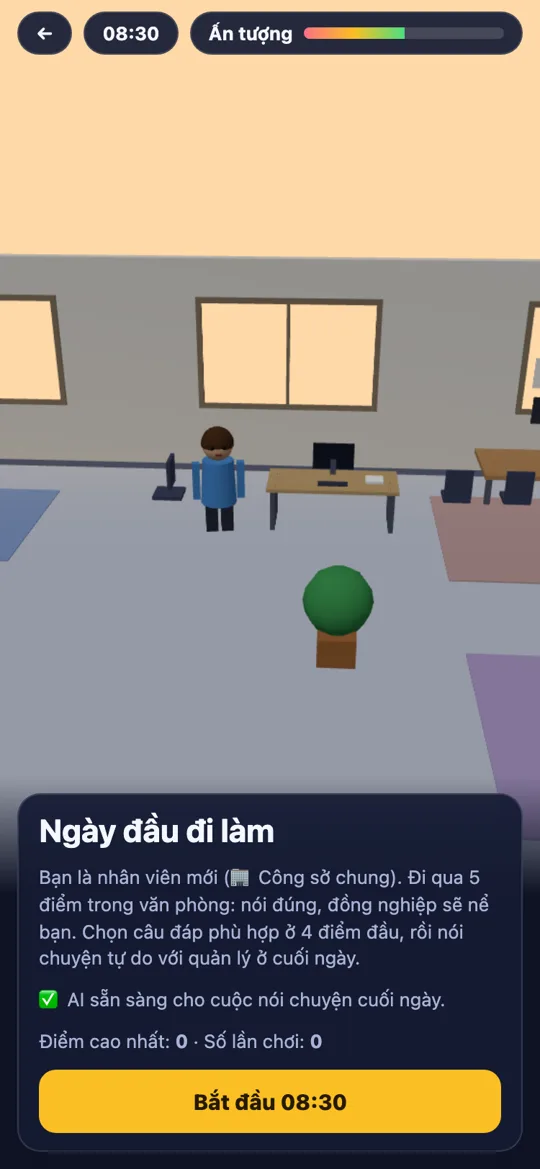
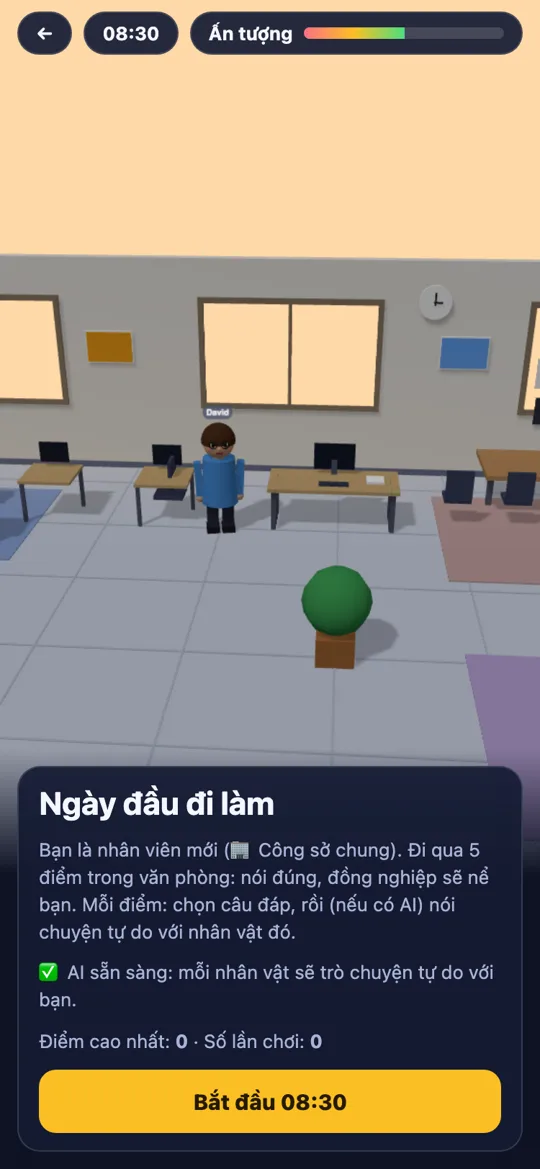
feat(game3d): nâng cấp nhân vật, cảnh có bóng đổ, AI trò chuyện ở cả 5 nhân vật; cập nhật ảnh showcase

diff --git a/game3d/game3d.js b/game3d/game3d.js
@@ -42,32 +42,46 @@ function parseReply(t){var i=t.indexOf('FIX:');return i<0?{reply:t.trim(),fix:''
 var canvas=$('#c'),renderer,scene,camera,sun,amb,skyMat,people={},clockEl=$('#clock');
 function mat(c){return new THREE.MeshLambertMaterial({color:c});}
 function box(w,h,d,c,x,y,z,parent){var m=new THREE.Mesh(new THREE.BoxGeometry(w,h,d),mat(c));m.position.set(x,y,z);(parent||scene).add(m);return m;}
+function sprite(txt,fs,bg){var c=document.createElement('canvas');c.width=256;c.height=96;var x=c.getContext('2d');x.font='700 '+fs+'px sans-serif';x.textAlign='center';x.textBaseline='middle';
+  if(bg){x.fillStyle=bg;var w=Math.min(250,x.measureText(txt).width+34);x.beginPath();x.roundRect?x.roundRect(128-w/2,16,w,64,30):x.rect(128-w/2,16,w,64);x.fill();}
+  x.fillStyle='#fff';x.fillText(txt,128,49);var t=new THREE.CanvasTexture(c);var sp=new THREE.Sprite(new THREE.SpriteMaterial({map:t,transparent:true,depthTest:false}));sp.scale.set(.85,.32,1);sp.renderOrder=9;return sp;}
 function person(o){
-  var g=new THREE.Group(),skin=mat(o.skin),cloth=mat(o.cloth);
-  var l1=box(.2,.5,.22,o.pants,-.13,.25,0,g),l2=box(.2,.5,.22,o.pants,.13,.25,0,g);
-  var body=new THREE.Mesh(new THREE.CylinderGeometry(.26,.3,.75,12),cloth);body.position.y=.88;g.add(body);
-  var a1=box(.12,.62,.14,o.cloth,-.37,.9,0,g),a2=box(.12,.62,.14,o.cloth,.37,.9,0,g);
-  var head=new THREE.Group();head.position.y=1.5;g.add(head);
-  var hm=new THREE.Mesh(new THREE.SphereGeometry(.25,16,12),skin);head.add(hm);
-  var hair=new THREE.Mesh(new THREE.SphereGeometry(.27,16,10,0,Math.PI*2,0,Math.PI*.55),mat(o.hair));hair.position.set(0,.03,-.02);head.add(hair);
-  [-.09,.09].forEach(function(x){var e=new THREE.Mesh(new THREE.SphereGeometry(.035,8,6),mat(0x1a1a1a));e.position.set(x,.03,.225);head.add(e);});
-  var mouth=box(.1,.028,.02,0x7a2b2b,0,-.09,.235,head);
-  if(o.tie){box(.07,.3,.03,o.tie,0,.95,.27,g);}
-  g.userData={head:head,mouth:mouth,a1:a1,a2:a2,react:null,reactAt:0,base:0};
+  var g=new THREE.Group(),skin=mat(o.skin),cloth=mat(o.cloth),pm=mat(o.pants);
+  var l1=box(.19,.5,.21,o.pants,-.13,.27,0,g),l2=box(.19,.5,.21,o.pants,.13,.27,0,g);
+  box(.22,.09,.32,0x1b1b22,-.13,.05,.04,g);box(.22,.09,.32,0x1b1b22,.13,.05,.04,g);
+  var body=new THREE.Mesh(new THREE.CylinderGeometry(.27,.31,.78,14),cloth);body.position.y=.9;g.add(body);
+  box(.5,.07,.3,o.pants,0,.55,0,g);
+  var a1=new THREE.Group(),a2=new THREE.Group();a1.position.set(-.36,1.22,0);a2.position.set(.36,1.22,0);g.add(a1,a2);
+  [a1,a2].forEach(function(a,ix){var arm=box(.12,.58,.14,o.cloth,0,-.29,0,a);var hand=new THREE.Mesh(new THREE.SphereGeometry(.075,10,8),skin);hand.position.set(0,-.62,0);a.add(hand);});
+  var neck=new THREE.Mesh(new THREE.CylinderGeometry(.09,.1,.14,10),skin);neck.position.y=1.33;g.add(neck);
+  var head=new THREE.Group();head.position.y=1.55;g.add(head);
+  head.add(new THREE.Mesh(new THREE.SphereGeometry(.26,20,16),skin));
+  var hair=new THREE.Mesh(new THREE.SphereGeometry(.28,20,12,0,Math.PI*2,0,Math.PI*.55),mat(o.hair));hair.position.set(0,.03,-.02);head.add(hair);
+  if(o.long){box(.5,.5,.14,o.hair,0,-.12,-.17,head);}
+  var eyes=[];[-.095,.095].forEach(function(x){var w=new THREE.Mesh(new THREE.SphereGeometry(.05,10,8),mat(0xffffff));w.position.set(x,.03,.21);w.scale.z=.5;head.add(w);
+    var e=new THREE.Mesh(new THREE.SphereGeometry(.03,10,8),mat(0x1a1a1a));e.position.set(x,.03,.238);head.add(e);eyes.push(w,e);
+    box(.1,.018,.02,o.hair,x,.12,.235,head);});
+  var nose=new THREE.Mesh(new THREE.SphereGeometry(.03,8,6),skin);nose.position.set(0,-.03,.26);head.add(nose);
+  [-.15,.15].forEach(function(x){var ch=new THREE.Mesh(new THREE.SphereGeometry(.04,8,6),mat(0xf08a8a));ch.position.set(x,-.05,.2);ch.scale.z=.3;head.add(ch);});
+  var mouth=box(.11,.026,.02,0x8a3030,0,-.11,.245,head);
+  if(o.glasses){[-.095,.095].forEach(function(x){var r=new THREE.Mesh(new THREE.TorusGeometry(.06,.01,6,14),mat(0x222222));r.position.set(x,.03,.245);head.add(r);});}
+  if(o.tie){box(.07,.34,.03,o.tie,0,.98,.29,g);}
+  var tag=sprite(o.name,40,'rgba(20,24,44,.82)');tag.position.set(0,2.05,0);g.add(tag);
+  g.userData={head:head,mouth:mouth,a1:a1,a2:a2,eyes:eyes,react:null,reactAt:0,base:0,bub:null,bubAt:0};
   return g;
 }
 var SLOTS=[
-  {k:'reception',time:'08:30',where:'Quầy lễ tân',x:-6,z:-3,name:'Lan',role:'Lễ tân · HR',cast:{skin:0xf2c9a0,cloth:0xe86a92,pants:0x33344d,hair:0x2a1c14}},
-  {k:'desk',time:'10:00',where:'Bàn làm việc',x:-1,z:-3,name:'David',role:'Đồng nghiệp bàn cạnh',cast:{skin:0xe8b48c,cloth:0x4a90d9,pants:0x2b2f3f,hair:0x4b2e1a}},
-  {k:'kitchen',time:'12:15',where:'Bếp văn phòng',x:-6,z:2.5,name:'Emma',role:'Đồng nghiệp phòng khác',cast:{skin:0xf5d5b5,cloth:0x59b36b,pants:0x3a3a3a,hair:0xc0842c}},
-  {k:'meeting',time:'14:00',where:'Phòng họp',x:5,z:-3,name:'Kenji',role:'Trưởng nhóm',cast:{skin:0xe3b58f,cloth:0x6b6bd6,pants:0x22263a,hair:0x151515}},
-  {k:'boss',time:'16:30',where:'Phòng sếp',x:5,z:2.5,name:'Ms. Park',role:'Quản lý — nói chuyện tự do',cast:{skin:0xeac09a,cloth:0x30364f,pants:0x1c1f2e,hair:0x201510,tie:0xd9534f}}
+  {k:'reception',time:'08:30',where:'Quầy lễ tân',x:-6,z:-3,name:'Lan',role:'Lễ tân · HR',goal:'You are Lan, the front-desk/HR person. Greet the new employee, ask their name, tell them about the badge, wifi password and where to sit. Be warm.',cast:{name:'Lan',long:1,skin:0xf2c9a0,cloth:0xe86a92,pants:0x33344d,hair:0x2a1c14}},
+  {k:'desk',time:'10:00',where:'Bàn làm việc',x:-1,z:-3,name:'David',role:'Đồng nghiệp bàn cạnh',goal:'You are David, the colleague at the next desk. Introduce yourself, ask what the new person will work on, offer help, and talk about the team.',cast:{name:'David',skin:0xe8b48c,cloth:0x4a90d9,pants:0x2b2f3f,hair:0x4b2e1a,glasses:1}},
+  {k:'kitchen',time:'12:15',where:'Bếp văn phòng',x:-6,z:2.5,name:'Emma',role:'Đồng nghiệp phòng khác',goal:'You are Emma from another department, meeting the new person in the kitchen at lunch. Make small talk: coffee, lunch, hobbies, weekend, where they live.',cast:{name:'Emma',long:1,skin:0xf5d5b5,cloth:0x59b36b,pants:0x3a3a3a,hair:0xc0842c}},
+  {k:'meeting',time:'14:00',where:'Phòng họp',x:5,z:-3,name:'Kenji',role:'Trưởng nhóm',goal:'You are Kenji, the team lead, in a short team meeting. Ask the new person for a quick self-introduction, then ask a work question they must answer or clarify (deadline, task, problem). Sometimes speak fast so they must ask you to repeat.',cast:{name:'Kenji',skin:0xe3b58f,cloth:0x6b6bd6,pants:0x22263a,hair:0x151515}},
+  {k:'boss',time:'16:30',where:'Phòng sếp',x:5,z:2.5,name:'Ms. Park',role:'Quản lý — nói chuyện tự do',goal:'You are Ms. Park, the manager. It is the END of their first day. Ask how the day went, what they learned, what was difficult, and about tomorrow.',cast:{name:'Ms. Park',long:1,skin:0xeac09a,cloth:0x30364f,pants:0x1c1f2e,hair:0x201510,tie:0xd9534f}}
 ];
 function build(){
   scene=new THREE.Scene();scene.background=new THREE.Color(0x9ec9ff);scene.fog=new THREE.Fog(0x9ec9ff,14,34);
   camera=new THREE.PerspectiveCamera(58,1,.1,60);
   amb=new THREE.HemisphereLight(0xffffff,0x8a8f9e,.85);scene.add(amb);
-  sun=new THREE.DirectionalLight(0xffffff,.8);sun.position.set(-4,9,6);scene.add(sun);
+  sun=new THREE.DirectionalLight(0xffffff,.8);sun.position.set(-4,9,6);sun.castShadow=true;sun.shadow.mapSize.set(1024,1024);var sc=sun.shadow.camera;sc.left=-13;sc.right=13;sc.top=10;sc.bottom=-10;sc.near=1;sc.far=30;sun.shadow.bias=-.0008;scene.add(sun);
   // sàn + tường
   box(20,.2,15,0xcfd6e6,0,-.1,.5);
   box(20,4,.3,0xf1efe9,0,2,-6);box(.3,4,15,0xece9e2,-10,2,.5);box(.3,4,15,0xece9e2,10,2,.5);
@@ -94,12 +108,22 @@ function build(){
   box(.7,.1,.7,0x30364f,5,.55,.4);box(.7,.7,.1,0x30364f,5,.95,.05);
   // cây cảnh
   [[-9,-5],[9,-5],[9,5],[-9,5],[1,1]].forEach(function(p){box(.5,.4,.5,0xa86b3c,p[0],.2,p[1]);var l=new THREE.Mesh(new THREE.SphereGeometry(.45,10,8),mat(0x3f9d54));l.position.set(p[0],.85,p[1]);scene.add(l);});
+  // sàn caro + trang trí
+  for(var gx=-9;gx<=9;gx+=2)box(.03,.01,15,0xbcc4d8,gx,.005,.5);for(var gz=-5;gz<=7;gz+=2)box(20,.01,.03,0xbcc4d8,0,.006,gz);
+  box(1.6,.5,.7,0x5b6fd6,-8.4,.25,-4.8);box(1.6,.5,.15,0x4a5cbb,-8.4,.7,-5.1); // sofa
+  box(.9,.6,.08,0xffffff,-3.4,2.4,-5.85);box(.85,.55,.02,0xf59e0b,-3.4,2.4,-5.8);box(.9,.6,.08,0xffffff,3.2,2.4,-5.85);box(.85,.55,.02,0x60a5fa,3.2,2.4,-5.8); // tranh
+  var ck=new THREE.Mesh(new THREE.CylinderGeometry(.3,.3,.06,20),mat(0xffffff));ck.rotation.x=Math.PI/2;ck.position.set(2.6,3.3,-5.8);scene.add(ck);box(.03,.22,.02,0x222222,2.6,3.36,-5.76);box(.16,.03,.02,0x222222,2.65,3.3,-5.76);
+  box(2.2,1.6,.3,0x6b4a2e,8.6,.8,-5.5);[.4,.9,1.4].forEach(function(y){box(2,.05,.34,0x8a6a44,8.6,y,-5.5);[0,1,2,3,4].forEach(function(n){box(.25,.3,.2,[0xd9534f,0x4a90d9,0x59b36b,0xf59e0b,0x9b6bd6][n],7.9+n*.35,y+.18,-5.5);});}); // giá sách
+  box(.6,.9,.6,0x30364f,-9,.45,1);box(.4,.3,.4,0xd9534f,-9,1.1,1); // máy pha cà phê
+  [-4,-2].forEach(function(x){box(.9,.05,.9,0xc9a875,x,.75,-3.4);box(.06,.75,.06,0x555b70,x-.4,.37,-3.0);box(.06,.75,.06,0x555b70,x+.4,.37,-3.8);box(.5,.35,.04,0x161b2b,x,1.05,-3.7);});
   // người
   SLOTS.forEach(function(s){var p=person(s.cast);p.position.set(s.x,0,s.z);p.userData.base=s.z;
     p.rotation.y=(s.x<0?.18:-.18);scene.add(p);people[s.k]=p;});
+  scene.traverse(function(o){if(o.isMesh&&o.material!==skyMat){o.castShadow=true;o.receiveShadow=true;}});
 }
 var camTarget={p:new THREE.Vector3(0,7,10),l:new THREE.Vector3(0,0,-1)},camPos=new THREE.Vector3(0,7,10),camLook=new THREE.Vector3(0,0,-1);
 function focusSlot(i){var s=SLOTS[i];camTarget.p.set(s.x+(s.x<0?.9:-.9),1.9,s.z+4.2);camTarget.l.set(s.x,-.05,s.z);}
+function emote(k,e){var p=people[k],u=p.userData;if(u.bub)p.remove(u.bub);var sp=sprite(e,60);sp.scale.set(.9,.34,1);sp.position.set(0,2.55,0);p.add(sp);u.bub=sp;u.bubAt=performance.now();}
 function overview(){camTarget.p.set(0,6.5,11);camTarget.l.set(0,0,-1);}
 function setDayTime(f){ // f 0..1 (08:30 → 17:30)
   var c1=new THREE.Color(0xffd9a8),c2=new THREE.Color(0x9ec9ff),c3=new THREE.Color(0xff9e6b),c;
@@ -120,7 +144,9 @@ function frame(now){
     u.mouth.scale.y=talking?(1+(Math.sin(now/70)>0?3:0)):1;
     var rx=0,ry=0;if(u.react){var e=(now-u.reactAt)/700;if(e>1)u.react=null;else{if(u.react==='nod')rx=Math.sin(e*Math.PI*3)*.28*(1-e);else ry=Math.sin(e*Math.PI*4)*.4*(1-e);}}
     u.head.rotation.x=rx;u.head.rotation.y=ry;
-    if(talking&&!reduce){u.a1.rotation.z=Math.sin(now/220)*.12;u.a2.rotation.z=-Math.sin(now/260)*.12;}else{u.a1.rotation.z=u.a2.rotation.z=0;}
+    var bl=(Math.floor(now/1000+ix*.7)%4===0&&(now%1000)<130)?.1:1;u.eyes.forEach(function(e){e.scale.y=bl;});
+    if(talking&&!reduce){u.a1.rotation.z=Math.sin(now/220)*.35;u.a2.rotation.z=-Math.sin(now/260)*.35;u.a1.rotation.x=Math.sin(now/300)*.25;}else{u.a1.rotation.z=.05;u.a2.rotation.z=-.05;u.a1.rotation.x=0;if(!reduce)u.a1.rotation.x=Math.sin(now/900+ix)*.03;}
+    if(u.bub){var e2=(now-u.bubAt)/1600;if(e2>1){p.remove(u.bub);u.bub=null;}else{u.bub.position.y=2.55+e2*.35;u.bub.material.opacity=1-Math.max(0,e2-.7)/.3;}}
   });
   renderer.render(scene,camera);
 }
@@ -135,21 +161,20 @@ function trackLabel(){return PACK?(PACK.emoji||'')+' '+PACK.label:'💻 IT · Ph
 
 function intro(){
   overview();st.on=false;setImp(50);
-  panel('<div class="box"><h2>Ngày đầu đi làm</h2><div class="muted">Bạn là nhân viên mới ('+esc(trackLabel())+'). Đi qua 5 điểm trong văn phòng: nói đúng, đồng nghiệp sẽ nể bạn. Chọn câu đáp phù hợp ở 4 điểm đầu, rồi nói chuyện tự do với quản lý ở cuối ngày.</div>'+
-    '<div class="muted">'+(aiConfigured()?'✅ AI sẵn sàng cho cuộc nói chuyện cuối ngày.':'ℹ Chưa có AI — cuối ngày dùng câu chọn. Nhập key trong Hồ sơ của game chính để nói tự do.')+'</div>'+
+  panel('<div class="box"><h2>Ngày đầu đi làm</h2><div class="muted">Bạn là nhân viên mới ('+esc(trackLabel())+'). Đi qua 5 điểm trong văn phòng: nói đúng, đồng nghiệp sẽ nể bạn. Mỗi điểm: chọn câu đáp, rồi (nếu có AI) nói chuyện tự do với nhân vật đó.</div>'+
+    '<div class="muted">'+(aiConfigured()?'✅ AI sẵn sàng: mỗi nhân vật sẽ trò chuyện tự do với bạn.':'ℹ Chưa có AI — chỉ có câu chọn. Nhập key trong Hồ sơ game chính để nói chuyện tự do ở mỗi điểm.')+'</div>'+
     '<div class="muted">Điểm cao nhất: <b>'+S.best+'</b> · Số lần chơi: <b>'+S.plays+'</b></div>'+
     '<button class="btn" id="go">Bắt đầu 08:30</button></div>');
   $('#go').onclick=function(){start();};
 }
 function start(){
   st.on=true;st.i=0;st.list=[];st.miss=[];st.good=0;st.total=0;st.done=false;setImp(50);
-  var need=aiConfigured()?4:5;st.dlg=pickDialogs(need);
+  var need=5;st.dlg=pickDialogs(need);
   if(st.dlg.length<need){toast('Gói này chưa đủ hội thoại');}
   scene0();
 }
 function scene0(){
   var s=SLOTS[st.i];focusSlot(st.i);clockEl.textContent=s.time;setDayTime(st.i/(SLOTS.length-1));
-  if(st.i===SLOTS.length-1&&aiConfigured())return chatScene();
   var d=st.dlg[Math.min(st.i,st.dlg.length-1)];
   if(!d){return finish();}
   choiceScene(s,d);
@@ -168,26 +193,26 @@ function answer(btn,o,d,s,opts){
   var all=document.querySelectorAll('#opts .opt');all.forEach(function(b){b.disabled=true;});
   st.total++;var p=people[s.k].userData;p.reactAt=performance.now();
   var good=opts.filter(function(x){return x.good;})[0];
-  if(o.good){st.good++;btn.classList.add('ok');setImp(st.imp+16);p.react='nod';}
-  else{btn.classList.add('no');setImp(st.imp-9);p.react='shake';
+  if(o.good){st.good++;btn.classList.add('ok');setImp(st.imp+16);p.react='nod';emote(s.k,'👍');}
+  else{btn.classList.add('no');setImp(st.imp-9);p.react='shake';emote(s.k,'🤔');
     all.forEach(function(b,ix){if(opts[ix]===good)b.classList.add('ok');});
     st.miss.push({wrong:o.t,right:good?good.t:'',note:o.fb||''});}
-  var fb=$('#fbx');fb.innerHTML='<div class="fb '+(o.good?'ok':'no')+'">'+(o.good?'✅ ':'❌ ')+esc(o.fb||'')+'</div><button class="btn" id="nx" style="margin-top:8px;width:100%">'+(st.i>=SLOTS.length-1?'Kết thúc ngày':'Tiếp — '+SLOTS[st.i+1].time)+'</button>';
+  var fb=$('#fbx');fb.innerHTML='<div class="fb '+(o.good?'ok':'no')+'">'+(o.good?'✅ ':'❌ ')+esc(o.fb||'')+'</div><button class="btn" id="nx" style="margin-top:8px;width:100%">'+(aiConfigured()?'💬 Nói chuyện tiếp với '+s.name:(st.i>=SLOTS.length-1?'Kết thúc ngày':'Tiếp — '+SLOTS[st.i+1].time))+'</button>';
   if(good)speak(good.t);
-  $('#nx').onclick=next;
+  $('#nx').onclick=function(){if(aiConfigured())chatScene(s);else next();};
 }
 function next(){st.i++;if(st.i>=SLOTS.length)return finish();scene0();}
 
 /* --- Cuộc nói chuyện AI với quản lý --- */
 function bossSystem(){
-  var lvl=(loadApp().cfg||{}).level||'A2',who=PACK?PACK.persona:'a Vietnamese software developer',ctx=PACK?PACK.context:'a software company';
-  return 'You are Ms. Park, a friendly but busy manager at '+ctx+'. The person talking to you is '+who+' (CEFR '+lvl+') at the END of their first day at work. Chat about how the first day went, what they learned, and tomorrow. Use very simple English, max 2 short sentences, and ask ONE question at a time. After your reply, on a NEW line write "FIX:" followed by either OK (if their last message was fine) or "wrong => right ~ short Vietnamese note" for the most important mistake. Never skip the FIX line.';
+  var s=SLOTS[st.i],lvl=(loadApp().cfg||{}).level||'A2',who=PACK?PACK.persona:'a Vietnamese software developer',ctx=PACK?PACK.context:'a software company';
+  return s.goal+' The setting is '+ctx+', time '+s.time+' on the new person\'s FIRST DAY. The person talking to you is '+who+' (CEFR '+lvl+'). Stay in character, use very simple English, max 2 short sentences, ask ONE question at a time, and react naturally to what they say. After your reply, on a NEW line write "FIX:" followed by either OK (if their last message was fine) or "wrong => right ~ short Vietnamese note" for the most important mistake. Never skip the FIX line.';
 }
-function chatScene(){
-  var s=SLOTS[st.i];st.chat={turns:[],user:0,busy:false};
+function chatScene(s){
+  focusSlot(st.i);st.chat={turns:[],user:0,busy:false,need:(st.i===SLOTS.length-1?3:2)};
   panel('<div class="box"><div class="who">'+esc(s.where)+' · '+esc(s.name)+' <span class="muted" style="text-transform:none">'+esc(s.role)+'</span></div>'+
     '<div class="chat" id="chat"></div><div class="row"><input class="tx" id="inp" placeholder="Trả lời bằng tiếng Anh…" autocomplete="off"><button class="btn ghost" id="mic" aria-label="Nói">🎤</button><button class="btn" id="snd">Gửi</button></div>'+
-    '<div class="muted" id="cnt">Lượt 0/3 — nói đủ 3 lượt để kết thúc ngày</div></div>');
+    '<div class="muted" id="cnt">Lượt 0/'+st.chat.need+' — nói đủ để đi tiếp</div></div>');
   $('#snd').onclick=function(){send();};
   $('#inp').onkeydown=function(e){if(e.key==='Enter')send();};
   $('#mic').onclick=mic;
@@ -204,7 +229,7 @@ async function bossTurn(msgs,first){
 }
 async function send(){
   var ch=st.chat,inp=$('#inp');if(!ch||ch.busy)return;var t=inp.value.trim();if(!t)return;inp.value='';
-  var ub=bubble('me',esc(t));ch.user++;$('#cnt').textContent='Lượt '+Math.min(ch.user,3)+'/3';
+  var ub=bubble('me',esc(t));ch.user++;$('#cnt').textContent='Lượt '+Math.min(ch.user,ch.need)+'/'+ch.need;
   var msgs=(ch.turns.length?[{role:'user',content:'(I walk into your office at the end of my first day.)'}]:[]).concat(ch.turns.map(function(m){return {role:m.role,content:m.content};})).concat([{role:'user',content:t}]);
   ch.turns.push({role:'user',content:t});ch.busy=true;var wait=bubble('ai','…');
   try{var raw=await aiCall(bossSystem(),msgs);var r=parseReply(raw);wait.textContent=r.reply;ch.turns.push({role:'assistant',content:raw});speak(r.reply);
@@ -212,10 +237,10 @@ async function send(){
     if(ok){setImp(st.imp+8);st.good++;}else{setImp(st.imp+2);var m=r.fix.match(/^(.*?)\s*=>\s*(.*?)(?:\s*~\s*(.*))?$/);
       if(m){st.miss.push({wrong:m[1].trim(),right:m[2].trim(),note:(m[3]||'').trim()});ub.innerHTML+='<div class="vi">💡 '+esc(m[2].trim())+(m[3]?' — '+esc(m[3].trim()):'')+'</div>';}}
     st.total++;
-    var pu=people.boss.userData;pu.react=ok?'nod':'shake';pu.reactAt=performance.now();
-  }catch(e){wait.textContent='(AI đang bận — thử gửi lại câu đó)';ch.user--;$('#cnt').textContent='Lượt '+ch.user+'/3';ch.turns.pop();}
+    var pu=people[SLOTS[st.i].k].userData;pu.react=ok?'nod':'shake';pu.reactAt=performance.now();emote(SLOTS[st.i].k,ok?'😊':'🤔');
+  }catch(e){wait.textContent='(AI đang bận — thử gửi lại câu đó)';ch.user--;$('#cnt').textContent='Lượt '+ch.user+'/'+ch.need;ch.turns.pop();}
   ch.busy=false;
-  if(ch.user>=3&&!$('#endd')){var b=document.createElement('button');b.className='btn';b.id='endd';b.style.width='100%';b.textContent='Kết thúc ngày đi làm';b.onclick=finish;$('#cnt').after(b);}
+  if(ch.user>=ch.need&&!$('#endd')){var last=st.i>=SLOTS.length-1,b=document.createElement('button');b.className='btn';b.id='endd';b.style.width='100%';b.textContent=last?'Kết thúc ngày đi làm':'Tiếp — '+SLOTS[st.i+1].time;b.onclick=last?finish:next;$('#cnt').after(b);}
 }
 function mic(){var SR=window.SpeechRecognition||window.webkitSpeechRecognition;if(!SR){toast('Trình duyệt không hỗ trợ mic');return;}
   var r=new SR();r.lang='en-US';r.onresult=function(e){$('#inp').value=e.results[0][0].transcript;};r.onerror=function(){toast('Không nghe được, thử lại');};try{r.start();toast('Đang nghe…');}catch(e){}}
@@ -233,7 +258,7 @@ function finish(){
 
 /* ---------- Khởi động ---------- */
 function boot(){
-  try{renderer=new THREE.WebGLRenderer({canvas:canvas,antialias:true});}catch(e){$('#nogl').style.display='flex';return;}
+  try{renderer=new THREE.WebGLRenderer({canvas:canvas,antialias:true});renderer.shadowMap.enabled=true;renderer.shadowMap.type=THREE.PCFSoftShadowMap;}catch(e){$('#nogl').style.display='flex';return;}
   if(!renderer.getContext()){$('#nogl').style.display='flex';return;}
   build();resize();addEventListener('resize',resize);setDayTime(0);
   camPos.copy(camTarget.p);camLook.copy(camTarget.l);

diff --git a/gioi-thieu.html b/gioi-thieu.html
@@ -447,8 +447,8 @@ html,body{overflow-x:clip}
 <section class="newband" id="new44">
 <div class="ngrid mrail">
 <div class="ncard"><div class="shot"><img src="img/showcase/v44/game3d-intro.webp" alt="Ngày đầu đi làm (3D)" width="540" height="1169" loading="lazy"></div><div class="k">MỚI 4.4</div><b>Ngày đầu đi làm (3D)</b><p>Game low-poly: đi qua 5 điểm trong văn phòng, nói đúng để đồng nghiệp nể bạn.</p></div>
-<div class="ncard"><div class="shot"><img src="img/showcase/v44/game3d-meeting.webp" alt="Chọn câu đáp" width="540" height="1169" loading="lazy"></div><div class="k">PHÒNG HỌP</div><b>Chọn câu đáp</b><p>Đồng nghiệp 3D nói, bạn chọn cách đáp phù hợp.</p></div>
-<div class="ncard"><div class="shot"><img src="img/showcase/v44/game3d-boss.webp" alt="Nói chuyện với quản lý" width="540" height="1169" loading="lazy"></div><div class="k">CUỐI NGÀY</div><b>Nói chuyện với quản lý</b><p>Hội thoại tự do với AI, 3 lượt.</p></div>
+<div class="ncard"><div class="shot"><img src="img/showcase/v44/game3d-meeting.webp" alt="Chọn câu đáp" width="540" height="1169" loading="lazy"></div><div class="k">PHÒNG HỌP</div><b>Chọn câu đáp</b><p>Mỗi đồng nghiệp có tên, biểu cảm, chớp mắt; bạn chọn cách đáp phù hợp.</p></div>
+<div class="ncard"><div class="shot"><img src="img/showcase/v44/game3d-boss.webp" alt="Nói chuyện với quản lý" width="540" height="1169" loading="lazy"></div><div class="k">CUỐI NGÀY</div><b>Nói chuyện với quản lý</b><p>Với AI, mỗi nhân vật trò chuyện tự do theo vai (lễ tân, đồng nghiệp, trưởng nhóm, sếp).</p></div>
 <div class="ncard"><div class="shot"><img src="img/showcase/v44/game3d-end.webp" alt="Nên nói thế này" width="540" height="1169" loading="lazy"></div><div class="k">TỔNG KẾT</div><b>Nên nói thế này</b><p>Lỗi trong buổi được sửa và gợi ý câu tốt hơn.</p></div>
 </div>
 </section>

diff --git a/CHANGELOG.md b/CHANGELOG.md
@@ -12,6 +12,10 @@ làm bản lưu trữ (`gioi-thieu-v<N>.html`) để xem lại app từng trông
 
 ---
 
+## v4.4.1 — game 3D nâng cấp
+- Nhân vật chi tiết hơn (tóc, mắt chớp, má, kính, tay, bảng tên, biểu tượng cảm xúc), văn phòng có bóng đổ, sofa, tranh, đồng hồ, giá sách.
+- Với AI: cả 5 nhân vật trò chuyện tự do theo vai sau mỗi câu chọn (2–3 lượt, sửa lỗi FIX).
+
 ## v4.4.0 — 29/09/2026 · Game 3D "Ngày đầu đi làm", tóm tắt cuối buổi AI vào Sổ lỗi
 
 - **Game mới `game3d/`** (three.js tự host, không build): văn phòng low-poly, 5 điểm trong ngày (lễ tân → bàn làm việc → bếp → phòng họp → phòng sếp), nhân vật nhép miệng/gật/lắc đầu, trời đổi màu theo giờ, thanh "Ấn tượng". 4 điểm đầu dùng `DATA.dialogues` của ngành đang học; điểm cuối là nói chuyện tự do 3 lượt với quản lý qua AI (cùng key với app; không có AI thì dùng câu chọn). Link ở game 2D › Hồ sơ › Cài đặt. Test `o.mjs`.
